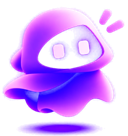
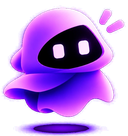
web: fix conversation row render loop, mobile list overflow, mascot transparency

diff --git a/apps/web/src/styles/chat.css b/apps/web/src/styles/chat.css
@@ -1,13 +1,13 @@
 /* ================= Split layout (list + detail) ================= */
-.split { flex: 1; min-height: 0; display: grid; grid-template-columns: var(--list-w) 1fr; }
-.split-list { display: flex; flex-direction: column; min-height: 0; border-right: 1px solid var(--border); background: var(--surface-0); }
+.split { flex: 1; min-height: 0; display: grid; grid-template-columns: var(--list-w) minmax(0, 1fr); }
+.split-list { display: flex; flex-direction: column; min-height: 0; min-width: 0; border-right: 1px solid var(--border); background: var(--surface-0); }
 .split-detail { min-width: 0; min-height: 0; display: flex; flex-direction: column; background: var(--surface-0); }
 .detail-empty { flex: 1; display: grid; place-items: center; background: radial-gradient(600px 400px at 50% 40%, color-mix(in oklab, var(--accent) 8%, transparent), transparent 70%); }
 .mobile-only { display: none !important; }
 @media (max-width: 860px) {
   .mobile-only { display: flex !important; }
   .desktop-only { display: none !important; }
-  .split { grid-template-columns: 1fr; }
+  .split { grid-template-columns: minmax(0, 1fr); }
   .split .split-detail { display: none; }
   .split.has-detail .split-list { display: none; }
   .split.has-detail .split-detail { display: flex; }
@@ -103,7 +103,7 @@
 .msg-avatar { width: 30px; flex: none; }
 .msg-stack { display: flex; flex-direction: column; max-width: min(72%, 560px); min-width: 0; position: relative; transition: transform var(--t-med) var(--ease-out); }
 .msg-row.is-mine .msg-stack { align-items: flex-end; }
-@media (max-width: 860px) { .msg-stack { max-width: 84%; } }
+@media (max-width: 860px) { .msg-stack { max-width: 86%; } .msg-row .bubble { max-width: 100%; } }
 .msg-name { font-size: 12px; font-weight: 600; color: color-mix(in oklab, var(--accent) 65%, var(--text)); margin: 0 0 3px 12px; }
 .swipe-reply { position: absolute; left: -34px; top: 50%; transform: translateY(-50%); width: 28px; height: 28px; border-radius: 50%; display: grid; place-items: center; background: var(--surface-3); color: var(--text); }
 

diff --git a/apps/web/src/routes/chats/ConversationList.tsx b/apps/web/src/routes/chats/ConversationList.tsx
@@ -16,11 +16,12 @@ function ConvRow({ c, active }: { c: Conversation; active: boolean }) {
   const users = useChat((s) => s.users);
   const presence = useChat((s) => s.presence);
   const typing = useChat((s) => s.typing[c.id]);
-  const pending = useChat((s) => Object.values(s.pending).filter((p) => p.conversation_id === c.id));
+  const allPending = useChat((s) => s.pending);
+  const pending = useMemo(() => Object.values(allPending).filter((p) => p.conversation_id === c.id), [allPending, c.id]);
   const title = conversationTitle(c, users, me);
   const peer = conversationPeer(c, me);
   const typers = Object.keys(typing ?? {}).filter((u) => u !== me);
-  const lastPending = pending.sort((a, b) => b.created_at.localeCompare(a.created_at))[0];
+  const lastPending = [...pending].sort((a, b) => b.created_at.localeCompare(a.created_at))[0];
   const lastAt = lastPending && (!c.last_message || lastPending.created_at > c.last_message.created_at) ? lastPending.created_at : c.last_message?.created_at;
   let preview = previewText(c.last_message);
   if (lastPending && lastAt === lastPending.created_at) {

diff --git a/apps/web/src/styles/app.css b/apps/web/src/styles/app.css
@@ -76,7 +76,7 @@
 .auth-points li { display: flex; align-items: center; gap: 12px; }
 .auth-points svg { color: #c084fc; }
 .auth-hero-foot { display: inline-flex; align-items: center; gap: 8px; color: #c084fc; font-weight: 500; font-size: var(--text-sm); }
-.auth-hero-ghost { position: absolute; right: -30px; bottom: 60px; opacity: .9; width: clamp(160px, 18vw, 300px); height: auto; }
+.auth-hero-ghost { display: none; position: absolute; right: -30px; bottom: 60px; opacity: .9; width: clamp(160px, 18vw, 300px); height: auto; }
 .auth-main { position: relative; display: grid; place-items: center; padding: var(--s-8) var(--s-6); }
 .auth-card { width: 100%; max-width: 420px; display: flex; flex-direction: column; gap: var(--s-4); animation: rise var(--t-slow) var(--ease-out); }
 .auth .input-box { background: rgba(255,255,255,.04); border-color: rgba(255,255,255,.09); }
